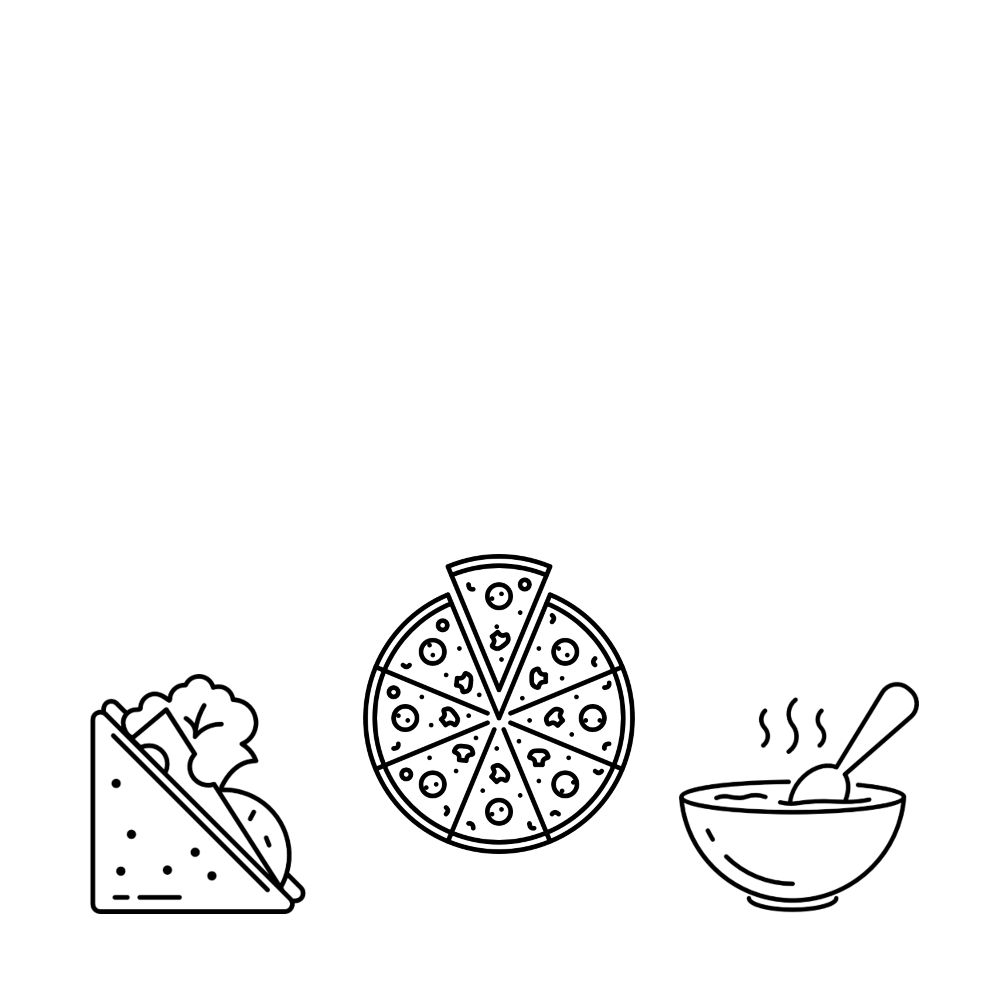
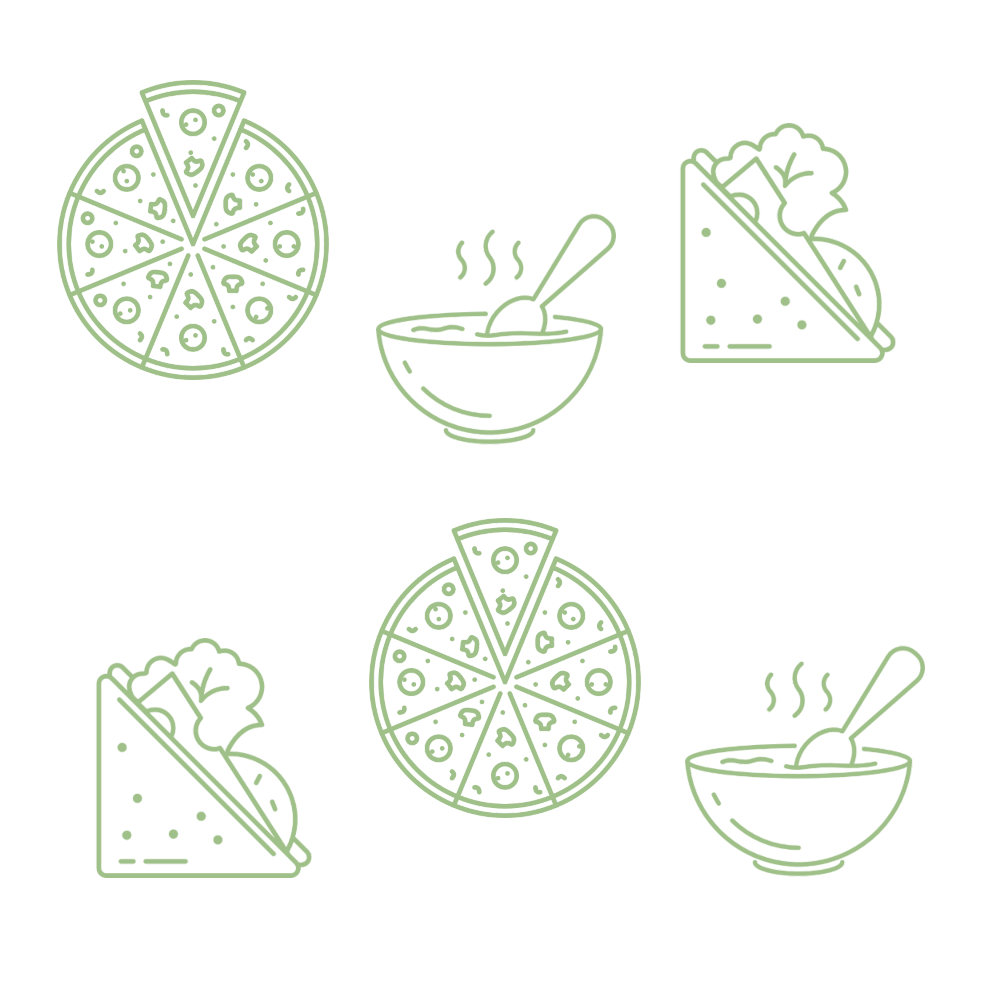
Restyle

diff --git a/src/styles/Global.js b/src/styles/Global.js
@@ -1,5 +1,5 @@
 import { createGlobalStyle } from 'styled-components';
-import food from '../assets/food3.png';
+import food from '../assets/food.png';
 
 const GlobalStyles = createGlobalStyle`
   @import url('https://fonts.googleapis.com/css2?family=Lato+Sans+JP:wght@100;200;300;400;700&display=swap');
@@ -16,7 +16,7 @@ const GlobalStyles = createGlobalStyle`
     --color-green-light: #E4E9BE;
     --color-yellow: #F8B400;
     --color-grey-light: #FAF5E4;
-    --color-grey-dark: #aaa;
+    --color-grey-dark: #222;
     --color-pink: #FF6363;
   }
 
@@ -35,6 +35,8 @@ const GlobalStyles = createGlobalStyle`
     padding: 2rem;
     height: 100vh;
     background-color: var(--color-primary-dark);
+    background-image: linear-gradient(rgba(6, 35, 34, .5), rgba(4, 35, 6, .5)),url(${food});
+    background-size: contain;  
   }
 `;
 export default GlobalStyles;

diff --git a/src/components/DishForm.js b/src/components/DishForm.js
@@ -1,4 +1,4 @@
-import React, { Fragment, useState } from 'react';
+import React, { useState } from 'react';
 import Styles from '../styles/Styles';
 import { Form, Field } from 'react-final-form';
 import useHttp from '../hooks/useHttp';
@@ -88,7 +88,6 @@ const DishForm = () => {
         >
           {({ handleSubmit, form, submitting, pristine, values }) => {
             const rangeValue = values['spiciness_scale'];
-
             const onReset = () => {
               form.restart();
             };

diff --git a/src/styles/Styles.js b/src/styles/Styles.js
@@ -86,11 +86,13 @@ export default styled.div`
           background-color: var(--color-green-light);
           color: var(--color-primary-dark);
           font-size: 1.5rem;
+          text-transform: uppercase;
           border: none;
           border-radius: 1.4rem;
 
           &::placeholder {
             color: var(--color-grey-dark);
+            text-transform: initial;
             font-size: 1.2rem;
           }
 
